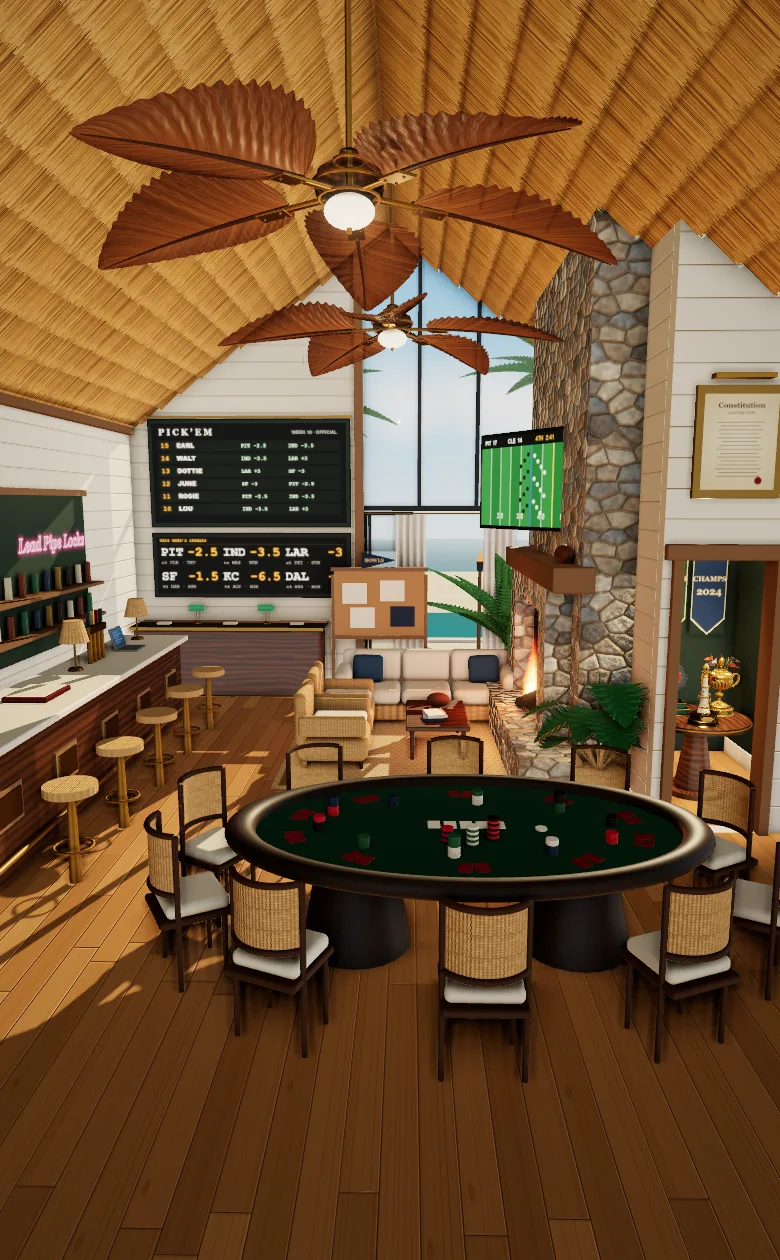
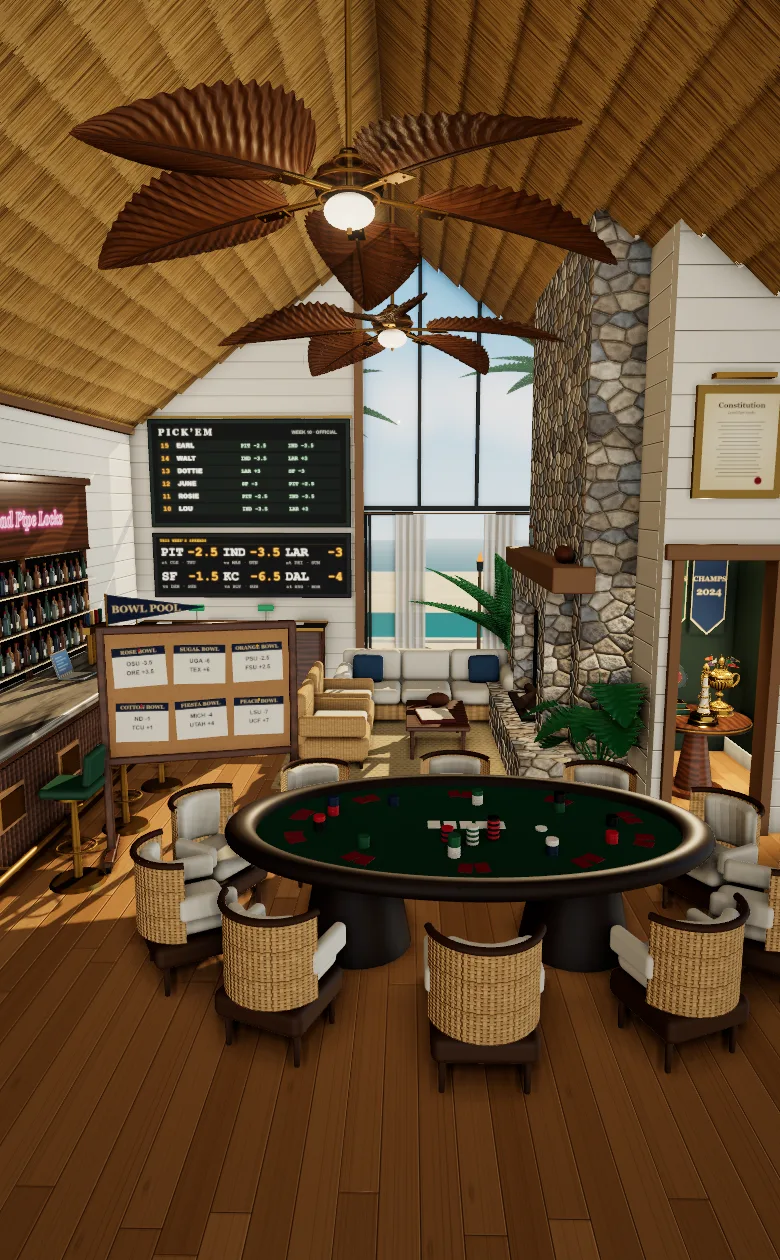
Lab clubhouse room: comfier chairs, an elegant bar, the fire lit at night
Deep padded club chairs at the poker table. The bar gets a fluted walnut front, marble top, brass rail, leather stools and a mirrored back bar with lit shelves of real bottles and rows of glassware. The TV goes. The fire is lit in the night picture and cold by day. From Dec 7 the Bowl Pool board stands in the open floor by the end of the bar, larger, with the bowl games pinned up. The record book moves to the lounge table so it and the laptop are easy to tap apart.

diff --git a/tools/clubhouse-room/room.js b/tools/clubhouse-room/room.js
@@ -4,12 +4,13 @@
 //  - Ceiling: natural beach-hut thatch laid in courses, no beams, two big palm-leaf fans down the middle.
 //  - Back wall, left: where picks are made, face on: the Big Board, one wide board of spreads under it, the counter. No sign.
 //  - Back wall, right: glass to the thatch, the sliding doors standing open onto the pool patio, palms, tiki torches and the sea.
-//  - Left wall: the bar running down the room, stools along it, the back bar and a neon sign on the wall, the plaques along its
-//    front, the record book and the laptop on top.
+//  - Left wall: the bar running down the room (fluted walnut, marble, brass), leather stools, a mirrored back bar of bottles and
+//    glassware under the neon, the plaques along its front, the laptop on top (the record book is on the lounge table).
 //  - Right: the Trophy Room, a room of its own to the side. Its wall steps into the clubhouse so its door faces you (the trophies
 //    on their table and the banners inside, the constitution framed over the door). Beyond it, on the wall the two rooms share,
-//    a grand floor-to-thatch stone fireplace with a TV over the mantel, and the lounge in front, set clear of the aisle.
-//  - Middle: a long oval Survivor poker table with a seat for every player. The floor in front of it is the way in.
+//    a grand floor-to-thatch stone fireplace (lit at night), and the lounge in front, set clear of the aisle.
+//  - Middle: a long oval Survivor poker table with a deep club chair for every player. The floor in front of it is the way in.
+//    From Dec 7 the Bowl Pool's board stands in the open floor by the end of the bar.
 // Units are metres: x left to right, z from the front wall (0) to the back (-RD).
 import { THREE, RoundedBoxGeometry, materials } from "/lib.js";
 import { pennantCup } from "/trophies.js";
@@ -37,20 +38,6 @@ const rbox = (w, h, d, r = 0.04) => new RoundedBoxGeometry(w, h, d, 3, r);
 const cyl = (rt, rb, h, seg = 32) => new THREE.CylinderGeometry(rt, rb, h, seg);
 
 // ---------- textures
-function gameOnTv() {
-  const c = canvas(640, 360), g = c.getContext("2d");
-  for (let i = 0; i < 10; i++) { g.fillStyle = i % 2 ? "#2c7a3a" : "#348a43"; g.fillRect(i * 64, 0, 64, 360); }
-  g.strokeStyle = "rgba(255,255,255,.85)"; g.lineWidth = 3;
-  for (let i = 1; i < 10; i++) { g.beginPath(); g.moveTo(i * 64, 44); g.lineTo(i * 64, 360); g.stroke(); }
-  g.fillStyle = "rgba(255,255,255,.8)"; g.font = "700 30px Arial"; g.textAlign = "center";
-  ["2 0", "3 0", "4 0", "5 0", "4 0"].forEach((n, i) => g.fillText(n, 128 + i * 128, 330));
-  g.fillStyle = "#1f6fe0"; g.fillRect(316, 44, 5, 316); g.fillStyle = "#ffd60a"; g.fillRect(444, 44, 5, 316);
-  for (let i = 0; i < 11; i++) { const y = 80 + i * 22; g.fillStyle = "#101418"; g.beginPath(); g.arc(300 - (i % 3) * 22, y, 8, 0, Math.PI * 2); g.fill(); g.fillStyle = "#f4f4f4"; g.beginPath(); g.arc(338 + (i % 4) * 20, y + 6, 8, 0, Math.PI * 2); g.fill(); }
-  g.fillStyle = "rgba(10,14,20,.92)"; g.fillRect(0, 0, 640, 44);
-  g.font = "700 24px Arial"; g.textAlign = "left"; g.fillStyle = "#fff"; g.fillText("PIT  17", 20, 30); g.fillText("CLE  14", 170, 30);
-  g.fillStyle = "#f0b429"; g.fillText("4TH  2:41", 340, 30); g.fillStyle = "#fff"; g.fillText("3RD & 4", 500, 30);
-  return texture(c);
-}
 function neon(text) {
   const c = canvas(1024, 200), g = c.getContext("2d");
   g.fillStyle = "rgba(0,0,0,0)"; g.fillRect(0, 0, 1024, 200);
@@ -273,40 +260,86 @@ export async function buildRoom(q) {
 
   // ----- the left wall: the bar, running down the room. Counter and stools, the back bar and a neon sign on the wall, lanterns
   // over it, the plaques along its front; the champions' banners hang over it one behind another, each facing the door.
+  // The bar: a fluted walnut front on a brass kick plate, a thick marble top with a brass foot rail below, green leather stools on
+  // brass. Behind it a back bar of walnut and antique mirror: three glass shelves of real bottles lit from beneath, glassware in rows
+  // on the back counter, and the neon over the mirror.
   const bar = group("bar");
-  const BXc = X0 + 0.95, BZ = -8.5, BL = 5.6;
-  add(bar, rbox(0.75, 1.1, BL, 0.03), m.walnut, [BXc, 0.55, BZ]);
-  add(bar, rbox(0.95, 0.07, BL + 0.12, 0.02), std(0xe8e2d4, { roughness: 0.25 }), [BXc, 1.13, BZ]);          // pale stone top
-  add(bar, cyl(0.025, 0.025, BL, 12), brass, [BXc + 0.45, 0.22, BZ], { rot: [Math.PI / 2, 0, 0] });
+  const BXc = X0 + 0.95, BZ = -8.5, BL = 5.6, FRONT = BXc + 0.375;
+  add(bar, rbox(0.75, 1.02, BL, 0.02), m.walnut, [BXc, 0.53, BZ]);
+  for (let k = 0; k < Math.floor(BL / 0.075); k++) add(bar, cyl(0.026, 0.026, 0.78, 10, 1), m.walnut, [FRONT, 0.55, BZ - BL / 2 + 0.06 + k * 0.075], { cast: false });   // flutes
+  add(bar, box(0.03, 0.12, BL), brass, [FRONT + 0.02, 0.06, BZ]);                                                                      // kick plate
+  add(bar, rbox(0.06, 0.07, BL + 0.04, 0.015), m.walnut, [FRONT + 0.02, 1.0, BZ]);                                                    // moulding under the top
+  add(bar, rbox(0.98, 0.09, BL + 0.14, 0.035), m.marble, [BXc + 0.02, 1.1, BZ]);                                                     // the marble top
+  add(bar, cyl(0.028, 0.028, BL, 16), brass, [FRONT + 0.16, 0.22, BZ], { rot: [Math.PI / 2, 0, 0] });                                  // foot rail
+  for (let k = 0; k < 5; k++) add(bar, cyl(0.012, 0.016, 0.2, 10), brass, [FRONT + 0.08, 0.2, BZ - BL / 2 + 0.4 + k * (BL - 0.8) / 4], { rot: [0, 0, Math.PI / 2] });
   const plaques = group("plaques");
-  for (let i = 0; i < 5; i++) { const z = BZ + 2.2 - i * 1.1; add(plaques, box(0.03, 0.32, 0.46), timberDark, [BXc + 0.39, 0.62, z]); add(plaques, box(0.02, 0.24, 0.38), brass, [BXc + 0.41, 0.62, z]); }
+  for (let i = 0; i < 5; i++) { const z = BZ + 2.2 - i * 1.1; add(plaques, rbox(0.03, 0.32, 0.46, 0.008), timberDark, [FRONT + 0.035, 0.62, z]); add(plaques, box(0.02, 0.24, 0.38), brass, [FRONT + 0.055, 0.62, z]); }
+  const stoolLeather = new THREE.MeshPhysicalMaterial({ color: 0x1f4a36, roughness: 0.45, clearcoat: 0.3, clearcoatRoughness: 0.4, sheen: 0.4, sheenColor: new THREE.Color(0x4f8a6a) });
   for (let i = 0; i < 5; i++) {
-    const z = BZ + 2.2 - i * 1.1;
-    add(bar, cyl(0.21, 0.21, 0.07, 24), rattan, [BXc + 0.9, 0.78, z]);
-    add(bar, cyl(0.03, 0.05, 0.75, 10), brass, [BXc + 0.9, 0.38, z]);
-    add(bar, new THREE.TorusGeometry(0.15, 0.012, 6, 24), brass, [BXc + 0.9, 0.3, z], { rot: [Math.PI / 2, 0, 0] });
+    const z = BZ + 2.2 - i * 1.1, sx = BXc + 0.92;
+    add(bar, rbox(0.4, 0.09, 0.38, 0.04), stoolLeather, [sx, 0.79, z]);                                                               // the seat
+    add(bar, rbox(0.06, 0.26, 0.34, 0.03), stoolLeather, [sx + 0.18, 0.97, z], { rot: [0, 0, -0.12] });                               // a low back
+    add(bar, cyl(0.15, 0.15, 0.02, 24), brass, [sx, 0.73, z]);
+    add(bar, cyl(0.025, 0.035, 0.66, 12), brass, [sx, 0.38, z]);
+    add(bar, cyl(0.2, 0.22, 0.03, 28), brass, [sx, 0.015, z]);
+    add(bar, new THREE.TorusGeometry(0.15, 0.011, 8, 28), brass, [sx, 0.3, z], { rot: [Math.PI / 2, 0, 0] });
   }
-  add(bar, box(0.06, 1.9, BL), std(0x1f3b2f, { roughness: 0.6 }), [X0 + 0.04, 2.15, BZ]);                    // the back bar's panel
-  add(bar, box(0.1, 0.08, BL + 0.1), timberDark, [X0 + 0.06, 3.12, BZ]);
-  for (let s = 0; s < 2; s++) add(bar, box(0.28, 0.04, BL - 0.2), timber, [X0 + 0.2, 1.5 + s * 0.42, BZ]);
-  const bottleColors = [0x2f6a4c, 0x7a3a12, 0xd8d0b8, 0x3a1d0c, 0x9a7a2a, 0x24435e];
-  for (let s = 0; s < 2; s++) for (let i = 0; i < 17; i++) add(bar, cyl(0.035, 0.04, 0.27 - (i % 3) * 0.03, 10), new THREE.MeshPhysicalMaterial({ color: bottleColors[(i + s) % 6], roughness: 0.1, transmission: 0.3, thickness: 0.1 }), [X0 + 0.2, 1.66 + s * 0.42, BZ - BL / 2 + 0.3 + i * 0.31], { cast: false });
-  add(bar, new THREE.PlaneGeometry(2.2, 0.43), new THREE.MeshBasicMaterial({ map: neon("Lead Pipe Locks"), transparent: true, toneMapped: false }), [X0 + 0.085, 2.5, -10.3], { cast: false, rot: [0, Math.PI / 2, 0] }).renderOrder = 2;
+  // the back bar
+  const WALL = X0 + 0.02;
+  add(bar, rbox(0.46, 0.92, BL, 0.02), m.walnut, [WALL + 0.23, 0.46, BZ]);                                                           // back counter
+  add(bar, rbox(0.5, 0.04, BL + 0.04, 0.01), m.marble, [WALL + 0.25, 0.94, BZ]);
+  add(bar, box(0.03, 1.36, BL - 0.3), new THREE.MeshStandardMaterial({ color: 0xb8a888, metalness: 1, roughness: 0.12, envMapIntensity: 1.1 }), [WALL + 0.02, 1.66, BZ], { cast: false });   // antique mirror
+  for (const z of [BZ - BL / 2 + 0.08, BZ + BL / 2 - 0.08, BZ - BL / 6, BZ + BL / 6]) add(bar, box(0.06, 1.42, 0.1), m.walnut, [WALL + 0.04, 1.66, z]);   // pilasters
+  add(bar, box(0.08, 0.86, BL + 0.1), m.walnut, [WALL + 0.04, 2.8, BZ]);                                                              // the panel above, where the neon hangs
+  add(bar, rbox(0.14, 0.1, BL + 0.2, 0.02), m.walnut, [WALL + 0.07, 3.27, BZ]);                                                       // cornice
+  add(bar, box(0.03, 0.03, BL), brass, [WALL + 0.1, 2.38, BZ]);
+  const bottleGlass = (color, clear) => new THREE.MeshPhysicalMaterial({ color, roughness: 0.06, metalness: 0, transmission: clear ? 0.85 : 0.45, thickness: 0.06, ior: 1.5, clearcoat: 1, clearcoatRoughness: 0.05, envMapIntensity: 1.2 });
+  const shapes = {
+    whiskey: [[0, 0], [0.038, 0], [0.04, 0.01], [0.04, 0.17], [0.034, 0.2], [0.014, 0.225], [0.013, 0.27], [0, 0.27]],
+    wine: [[0, 0], [0.034, 0], [0.036, 0.01], [0.036, 0.17], [0.03, 0.21], [0.013, 0.245], [0.012, 0.31], [0, 0.31]],
+    gin: [[0, 0], [0.044, 0], [0.046, 0.01], [0.046, 0.15], [0.03, 0.18], [0.013, 0.19], [0.013, 0.23], [0, 0.23]],
+    liqueur: [[0, 0], [0.04, 0], [0.042, 0.02], [0.034, 0.1], [0.04, 0.17], [0.02, 0.2], [0.011, 0.22], [0.011, 0.25], [0, 0.25]],
+  };
+  const lathe = Object.fromEntries(Object.entries(shapes).map(([k, pts]) => [k, new THREE.LatheGeometry(pts.map(([r, y]) => new THREE.Vector2(r, y)), 20)]));
+  const bottleKinds = [["whiskey", 0x8a4a14, false], ["wine", 0x2f5a3c, false], ["gin", 0xdfeee6, true], ["whiskey", 0xa8641c, false], ["liqueur", 0x6a1a14, false], ["gin", 0x9fc8d8, true], ["wine", 0x3a1d0c, false], ["whiskey", 0xc0802a, false], ["liqueur", 0x1d3557, false]];
+  const labelInks = [0xf3ead3, 0x111111, 0xe6cf98, 0xf7f4ec, 0x1f4a36];
+  const SHELVES = [1.16, 1.58, 2.0];
+  SHELVES.forEach((y, sIndex) => {
+    add(bar, box(0.24, 0.016, BL - 0.4), glass, [WALL + 0.14, y, BZ], { cast: false });
+    add(bar, box(0.01, 0.012, BL - 0.4), glow(0xffd9a0, night ? 2.2 : 1.1), [WALL + 0.24, y - 0.014, BZ], { cast: false });              // a lamp strip under the shelf's front edge
+    let z = BZ - BL / 2 + 0.3;
+    for (let i = 0; z < BZ + BL / 2 - 0.3; i++) {
+      const [kind, color, clear] = bottleKinds[(i * 4 + sIndex * 3) % bottleKinds.length], h = shapes[kind].at(-1)[1];
+      if (Math.abs(z - (BZ - BL / 6)) < 0.08 || Math.abs(z - (BZ + BL / 6)) < 0.08) { z += 0.12; continue; }                        // leave the pilasters clear
+      const bottle = add(bar, lathe[kind], bottleGlass(color, clear), [WALL + 0.13 + (i % 2) * 0.03, y + 0.008, z], { cast: false });
+      bottle.scale.setScalar(sIndex === 2 ? 0.9 : 1);
+      add(bar, cyl(0.014, 0.014, 0.03, 10), [brass, std(0x111111, { roughness: 0.4 }), std(0x8c1e24, { roughness: 0.4 })][i % 3], [WALL + 0.13 + (i % 2) * 0.03, y + 0.008 + h * bottle.scale.y + 0.012, z], { cast: false });
+      add(bar, new THREE.PlaneGeometry(0.05, 0.05 + (i % 2) * 0.02), std(labelInks[(i + sIndex) % labelInks.length], { roughness: 0.7 }), [WALL + 0.13 + (i % 2) * 0.03 + (kind === "gin" ? 0.047 : 0.041), y + 0.09, z], { cast: false, rot: [0, Math.PI / 2, 0] });
+      z += 0.085 + (i % 3) * 0.012;
+    }
+    if (night) { const l = new THREE.PointLight(0xffc98a, 0.9, 2.2, 1.6); l.position.set(WALL + 0.4, y + 0.2, BZ); bar.add(l); }
+  });
+  // glassware on the back counter: rocks glasses and coupes in neat rows, upturned on a bar mat
+  const crystal = new THREE.MeshPhysicalMaterial({ color: 0xffffff, roughness: 0.04, transmission: 1, thickness: 0.02, ior: 1.5, clearcoat: 1, envMapIntensity: 1.4, side: THREE.DoubleSide });
+  const rocks = new THREE.LatheGeometry([[0, 0], [0.036, 0], [0.04, 0.004], [0.042, 0.085], [0.038, 0.085], [0.034, 0.012], [0, 0.012]].map(([r, y]) => new THREE.Vector2(r, y)), 20);
+  const coupe = new THREE.LatheGeometry([[0, 0], [0.032, 0], [0.032, 0.006], [0.005, 0.012], [0.004, 0.09], [0.03, 0.1], [0.055, 0.13], [0.052, 0.132], [0.028, 0.104], [0, 0.098]].map(([r, y]) => new THREE.Vector2(r, y)), 22);
+  add(bar, box(0.3, 0.008, 1.4), std(0x111111, { roughness: 0.9 }), [WALL + 0.3, 0.965, BZ + 1.6], { cast: false });
+  for (let r = 0; r < 2; r++) for (let k = 0; k < 9; k++) add(bar, k % 3 === 2 ? coupe : rocks, crystal, [WALL + 0.22 + r * 0.12, 0.97, BZ + 1.0 + k * 0.14 + r * 0.07], { cast: false });
+  add(bar, new THREE.PlaneGeometry(2.2, 0.43), new THREE.MeshBasicMaterial({ map: neon("Lead Pipe Locks"), transparent: true, toneMapped: false }), [WALL + 0.085, 2.8, -9.6], { cast: false, rot: [0, Math.PI / 2, 0] }).renderOrder = 2;
+  // on the bar top: the tap tower, a cocktail shaker, a pair of glasses
   add(bar, box(0.08, 0.08, 0.5), brass, [BXc - 0.1, 1.55, BZ - 1.0]);
   for (let i = 0; i < 4; i++) { add(bar, cyl(0.03, 0.03, 0.4, 10), brass, [BXc - 0.1, 1.36, BZ - 1.18 + i * 0.12]); add(bar, rbox(0.04, 0.16, 0.04, 0.01), std([0x1f4a36, 0x8c1e24, 0xc9a45f, 0x1d3557][i]), [BXc - 0.1, 1.68, BZ - 1.18 + i * 0.12]); }
-  for (const z of [BZ + 2.55, BZ - 0.45, BZ - 2.5]) {                                                        // rattan lamps standing on the bar
-    add(bar, cyl(0.07, 0.09, 0.03, 16), brass, [BXc - 0.12, 1.18, z]);
-    add(bar, cyl(0.012, 0.012, 0.34, 8), brass, [BXc - 0.12, 1.35, z]);
-    add(bar, cyl(0.1, 0.16, 0.24, 20), rattan, [BXc - 0.12, 1.6, z]);
-    add(bar, cyl(0.05, 0.05, 0.1, 12), glow(0xffd28a, night ? 3 : 1.2), [BXc - 0.12, 1.56, z], { cast: false });
-    if (night) { const l = new THREE.PointLight(0xffc27a, 1.6, 3, 1.6); l.position.set(BXc + 0.1, 1.7, z); bar.add(l); }
+  add(bar, new THREE.LatheGeometry([[0, 0], [0.04, 0], [0.045, 0.14], [0.03, 0.17], [0.03, 0.2], [0.012, 0.22], [0, 0.23]].map(([r, y]) => new THREE.Vector2(r, y)), 20), new THREE.MeshStandardMaterial({ color: 0xd8dbe0, metalness: 1, roughness: 0.18 }), [BXc + 0.1, 1.145, BZ - 2.1]);
+  for (const dz of [0, 0.12]) add(bar, coupe, crystal, [BXc + 0.18, 1.145, BZ - 1.8 + dz], { cast: false });
+  for (const z of [BZ + 2.55, BZ - 2.5]) {                                                                                             // brass lamps with pleated shades
+    add(bar, cyl(0.07, 0.09, 0.03, 20), brass, [BXc - 0.12, 1.16, z]);
+    add(bar, cyl(0.012, 0.012, 0.36, 8), brass, [BXc - 0.12, 1.34, z]);
+    add(bar, cyl(0.07, 0.14, 0.2, 24, 1, true), new THREE.MeshStandardMaterial({ color: 0xf3ead3, emissive: 0xffd9a0, emissiveIntensity: night ? 0.9 : 0.3, roughness: 0.9, side: THREE.DoubleSide }), [BXc - 0.12, 1.58, z], { cast: false });
+    if (night) { const l = new THREE.PointLight(0xffc27a, 1.6, 3, 1.6); l.position.set(BXc + 0.1, 1.6, z); bar.add(l); }
   }
-  const record = group("record");
-  add(record, rbox(0.42, 0.05, 0.56, 0.01), std(0x6b1f1a, { roughness: 0.5 }), [BXc, 1.19, BZ + 0.75]);
-  add(record, new THREE.PlaneGeometry(0.52, 0.38), new THREE.MeshStandardMaterial({ map: bookPages(), roughness: 0.9 }), [BXc, 1.22, BZ + 0.75], { cast: false, rot: [-Math.PI / 2, 0, Math.PI / 2] });
   const chat = group("chat");
-  add(chat, rbox(0.27, 0.02, 0.38, 0.008), std(0xa8adb2, { metalness: 0.7, roughness: 0.3 }), [BXc + 0.05, 1.18, BZ - 1.75]);
-  const lid = new THREE.Group(); lid.position.set(BXc - 0.08, 1.19, BZ - 1.75); lid.rotation.set(0, Math.PI / 2, 0); chat.add(lid);
+  add(chat, rbox(0.27, 0.02, 0.38, 0.008), std(0xa8adb2, { metalness: 0.7, roughness: 0.3 }), [BXc + 0.05, 1.18, BZ - 0.1]);
+  const lid = new THREE.Group(); lid.position.set(BXc - 0.08, 1.19, BZ - 0.1); lid.rotation.set(0, Math.PI / 2, 0); chat.add(lid);
   const lidTilt = new THREE.Group(); lidTilt.rotation.x = -0.3; lid.add(lidTilt);
   add(lidTilt, rbox(0.38, 0.26, 0.02, 0.008), std(0xa8adb2, { metalness: 0.7, roughness: 0.3 }), [0, 0.13, 0]);
   add(lidTilt, new THREE.PlaneGeometry(0.34, 0.22), new THREE.MeshStandardMaterial({ map: screenTex(), emissive: 0xffffff, emissiveMap: screenTex(), emissiveIntensity: 0.85 }), [0, 0.13, 0.012], { cast: false });
@@ -337,24 +370,23 @@ export async function buildRoom(q) {
   for (const side of [-1, 1]) stoneBlock(0.28, 1.5, 0.44, [X1 - CD - 0.14, 1.25, FZ + side * 1.17]);
   stoneBlock(0.28, 0.3, 2.78, [X1 - CD - 0.14, 1.97, FZ]);
   add(fire, box(0.04, 1.34, 1.92), std(0x120e0b, { roughness: 1 }), [X1 - CD - 0.01, 1.16, FZ], { cast: false });
-  add(fire, box(0.02, 0.5, 1.5), glow(0xb8380a, night ? 1.4 : 0.9), [X1 - CD - 0.035, 0.78, FZ], { cast: false });                  // embers glowing on the back of the firebox
-  const fireMat = new THREE.MeshBasicMaterial({ map: fireTongue(), transparent: true, blending: THREE.AdditiveBlending, depthWrite: false, side: THREE.DoubleSide, fog: false });
-  fireMat.color.setScalar(night ? 3.2 : 2.4);
-  [[-0.46, 0.5], [-0.24, 0.78], [0.0, 0.95], [0.22, 0.72], [0.44, 0.48], [-0.12, 0.6], [0.12, 0.66]].forEach(([dz, h], i) => {
-    for (const turn of [-0.45, 0.5]) veil.push(add(fire, new THREE.PlaneGeometry(h * 0.52, h), fireMat, [X1 - CD - 0.11 - (i % 3) * 0.035, 0.58 + h / 2, FZ + dz], { cast: false, receive: false, rot: [0, -Math.PI / 2 + turn, 0] }));
-  });
+  // The fire is lit at night. By day it is laid but cold: logs on the grate, a little pale ash.
+  add(fire, box(0.5, 0.04, 1.3), std(0x1c1814, { roughness: 1 }), [X1 - CD - 0.14, 0.52, FZ], { cast: false });                      // the grate
+  if (night) {
+    add(fire, box(0.02, 0.5, 1.5), glow(0xb8380a, 1.4), [X1 - CD - 0.035, 0.78, FZ], { cast: false });                                // embers glowing on the back of the firebox
+    const fireMat = new THREE.MeshBasicMaterial({ map: fireTongue(), transparent: true, blending: THREE.AdditiveBlending, depthWrite: false, side: THREE.DoubleSide, fog: false });
+    fireMat.color.setScalar(3.2);
+    [[-0.46, 0.5], [-0.24, 0.78], [0.0, 0.95], [0.22, 0.72], [0.44, 0.48], [-0.12, 0.6], [0.12, 0.66]].forEach(([dz, h], i) => {
+      for (const turn of [-0.45, 0.5]) veil.push(add(fire, new THREE.PlaneGeometry(h * 0.52, h), fireMat, [X1 - CD - 0.11 - (i % 3) * 0.035, 0.58 + h / 2, FZ + dz], { cast: false, receive: false, rot: [0, -Math.PI / 2 + turn, 0] }));
+    });
+    const flame = new THREE.PointLight(0xff8a3a, 9, 7, 1.5); flame.position.set(X1 - CD - 0.7, 0.9, FZ); fire.add(flame);
+  } else add(fire, box(0.3, 0.02, 1.0), std(0xb8b2a8, { roughness: 1 }), [X1 - CD - 0.14, 0.55, FZ], { cast: false });              // cold ash
   for (let i = 0; i < 3; i++) add(fire, cyl(0.07, 0.07, 1.0, 8), std(0x3a2414), [X1 - CD - 0.12, 0.6 + i * 0.05, FZ - 0.15 + i * 0.15], { rot: [Math.PI / 2, 0, 0.3 * i] });
   add(fire, rbox(0.42, 0.26, 3.8, 0.02), timberDark, [X1 - CD - 0.1, 2.25, FZ]);                                     // timber mantel beam
   const ball = add(fire, new THREE.SphereGeometry(0.1, 20, 14), std(0x6b3a1e, { roughness: 0.6 }), [X1 - CD - 0.1, 2.47, FZ + 1.35]); ball.scale.set(1, 0.95, 1.6);
   add(fire, box(0.012, 0.012, 0.2), white, [X1 - CD - 0.1, 2.57, FZ + 1.35], { cast: false });
   add(fire, rbox(0.03, 0.3, 0.38, 0.008), timberDark, [X1 - CD - 0.02, 2.54, FZ - 1.3], { rot: [0, 0, 0.12] });
   add(fire, box(0.005, 0.22, 0.3), std(0x9fc4dd), [X1 - CD - 0.04, 2.54, FZ - 1.3], { cast: false, rot: [0, 0, 0.12] });
-  const flame = new THREE.PointLight(0xff8a3a, night ? 9 : 3.5, 7, 1.5); flame.position.set(X1 - CD - 0.7, 0.9, FZ); fire.add(flame);
-  const tv = group("tv");
-  const tvMount = new THREE.Group(); tvMount.position.set(X1 - CD - 0.25, 3.25, FZ + 0.1); tvMount.rotation.y = -Math.PI / 2 + 0.55; tv.add(tvMount);
-  add(tvMount, rbox(2.0, 1.16, 0.06, 0.02), std(0x0c0c0d, { roughness: 0.3, metalness: 0.3 }), [0, 0, 0]);
-  add(tvMount, new THREE.PlaneGeometry(1.9, 1.07), new THREE.MeshStandardMaterial({ map: gameOnTv(), emissive: 0xffffff, emissiveMap: gameOnTv(), emissiveIntensity: night ? 1.0 : 0.8 }), [0, 0, 0.032], { cast: false });
-  add(tv, box(0.28, 0.06, 0.06), frameMat, [X1 - CD - 0.12, 3.25, FZ]);
   const charter = group("constitution");
   add(charter, box(0.74, 0.94, 0.06), std(0xa8823a, { metalness: 0.6, roughness: 0.35 }), [CX, 3.5, JOG + 0.03]);
   add(charter, new THREE.PlaneGeometry(0.62, 0.79), new THREE.MeshStandardMaterial({ map: parchment(), roughness: 0.9 }), [CX, 3.5, JOG + 0.065], { cast: false });
@@ -381,7 +413,10 @@ export async function buildRoom(q) {
   }
   add(room, rbox(0.75, 0.06, 1.3, 0.02), m.walnut, [0.65, 0.4, FZ]);                                                                   // the low table
   for (const dx of [-0.3, 0.3]) for (const dz of [-0.56, 0.56]) add(room, cyl(0.03, 0.022, 0.37, 10), m.walnut, [0.65 + dx, 0.185, FZ + dz]);
-  add(room, rbox(0.26, 0.05, 0.34, 0.01), std(0x1d3557, { roughness: 0.6 }), [0.6, 0.455, FZ + 0.3]); add(room, rbox(0.24, 0.04, 0.32, 0.01), std(0xe8e2d4, { roughness: 0.6 }), [0.62, 0.5, FZ + 0.31], { rot: [0, 0.2, 0] });
+  // the record book (the pool's stats) lies open on the low table, where anyone in the lounge can leaf through it
+  const record = group("record");
+  add(record, rbox(0.42, 0.05, 0.56, 0.01), std(0x6b1f1a, { roughness: 0.5 }), [0.62, 0.455, FZ + 0.25], { rot: [0, 0.15, 0] });
+  add(record, new THREE.PlaneGeometry(0.52, 0.38), new THREE.MeshStandardMaterial({ map: bookPages(), roughness: 0.9 }), [0.62, 0.484, FZ + 0.25], { cast: false, rot: [-Math.PI / 2, 0, Math.PI / 2 + 0.15] });
   const tableBall = add(room, new THREE.SphereGeometry(0.1, 20, 14), std(0x6b3a1e, { roughness: 0.6 }), [0.68, 0.52, FZ - 0.3]); tableBall.scale.set(1.5, 0.92, 0.92);
 
   // ----- the Trophy Room, through its door: as on today's page, the three real trophies on their round mahogany table under a lamp
@@ -431,12 +466,19 @@ export async function buildRoom(q) {
     for (const off of [-0.05, 0.05]) add(poker, box(0.085, 0.004, 0.12), cardBack, [PX + cos * (PRX - 0.3) + sin * off, 0.824 + (off > 0 ? 0.004 : 0), PZ + sin * (PRZ - 0.24) - cos * off], { cast: false, rot: [0, -t + Math.PI / 2 + off * 3, 0] });
     for (let k = 0; k < 4 + (a % 3) * 2; k++) add(poker, cyl(0.04, 0.04, 0.016, 18), std(chipColors[(a + (k > 3 ? 1 : 0)) % 5], { roughness: 0.4 }), [PX + cos * (PRX - 0.5) + Math.cos(t + 1.5) * 0.11, 0.83 + k * 0.017, PZ + sin * (PRZ - 0.42) + Math.sin(t + 1.5) * 0.08], { cast: false });
     const c = new THREE.Group(); c.position.set(PX + cos * (PRX + 0.4), 0, PZ + sin * (PRZ + 0.4)); c.rotation.y = Math.PI / 2 - Math.atan2(sin * PRX, cos * PRZ); poker.add(c);
-    // a barrel-back club chair: woven cane wrapped round the back between two rails, a loose linen cushion, turned legs
-    add(c, rbox(0.46, 0.05, 0.46, 0.02), chairWood, [0, 0.45, 0]); add(c, rbox(0.42, 0.09, 0.4, 0.04), linen, [0, 0.51, -0.02]);
-    add(c, new THREE.CylinderGeometry(0.27, 0.27, 0.36, 24, 1, true, -0.95, 1.9), caneOpen, [0, 0.82, -0.04]);
-    for (const y of [0.63, 1.01]) add(c, new THREE.TorusGeometry(0.27, 0.02, 8, 24, 1.9), chairWood, [0, y, -0.04], { rot: [Math.PI / 2, 0, Math.PI / 2 - 0.95] });
-    for (const sx of [-1, 1]) { add(c, cyl(0.02, 0.016, 1.01, 10), chairWood, [sx * 0.22, 0.505, 0.117]); add(c, cyl(0.02, 0.015, 0.45, 10), chairWood, [sx * 0.19, 0.225, -0.18]); }
+    // a deep club chair: a thick linen seat cushion, a padded back that wraps round into low arms, a cane shell behind it, short legs
+    add(c, rbox(0.56, 0.16, 0.54, 0.05), chairWood, [0, 0.27, 0]);
+    add(c, rbox(0.5, 0.14, 0.48, 0.07), linen, [0, 0.42, -0.02]);
+    add(c, new THREE.CylinderGeometry(0.3, 0.3, 0.5, 28, 1, true, -1.35, 2.7), caneOpen, [0, 0.6, 0.02]);
+    add(c, new THREE.TorusGeometry(0.3, 0.022, 8, 28, 2.7), chairWood, [0, 0.85, 0.02], { rot: [Math.PI / 2, 0, Math.PI / 2 - 1.35] });
+    for (let k = -2; k <= 2; k++) {                                                                                                    // the padded back, in tufted panels
+      const a = k * 0.32, pad = add(c, rbox(0.17, 0.36, 0.09, 0.04), linen, [Math.sin(a) * 0.235, 0.66, 0.02 + Math.cos(a) * 0.235]);
+      pad.rotation.set(-0.1 * Math.cos(a), a, 0);
+    }
+    for (const side of [-1, 1]) add(c, rbox(0.08, 0.15, 0.36, 0.035), linen, [side * 0.27, 0.56, -0.06]);                              // the arms
+    for (const [lx, lz] of [[-0.22, -0.2], [0.22, -0.2], [-0.22, 0.2], [0.22, 0.2]]) add(c, cyl(0.022, 0.016, 0.2, 10), chairWood, [lx, 0.1, lz]);
   }
+
 
   // ----- plants in baskets and pots, a surfboard against the wall, and from Dec 7 the Bowl Pool's bulletin board on wheels, wheeled in
   // beside the open doors
@@ -467,14 +509,23 @@ export async function buildRoom(q) {
     if (night) { const l = new THREE.PointLight(0xff9a40, 2.5, 4, 1.6); l.position.set(x, 2.1, z); out.add(l); }
   }
   if (bowl) {
+    // From Dec 7 the Bowl Pool's board is wheeled in and stands in the open floor by the end of the bar, turned a little into the
+    // room: a cork board in a walnut frame on a wheeled stand, the BOWL POOL pennant on top and the bowl games pinned up as cards.
     const b2 = group("bowl");
-    const BBX = -0.15, BBZ = ZB + 0.9;
-    add(b2, box(1.4, 1.0, 0.05), std(0xb98a5a, { roughness: 1 }), [BBX, 1.45, BBZ]);
-    add(b2, box(1.5, 0.06, 0.08), timberDark, [BBX, 1.98, BBZ]); add(b2, box(1.5, 0.06, 0.08), timberDark, [BBX, 0.92, BBZ]);
-    for (const dx of [-0.72, 0.72]) { add(b2, box(0.05, 1.9, 0.05), timberDark, [BBX + dx, 0.95, BBZ]); add(b2, box(0.05, 0.05, 0.55), timberDark, [BBX + dx, 0.12, BBZ]); for (const dz of [-0.24, 0.24]) add(b2, cyl(0.05, 0.05, 0.04, 16), std(0x222222), [BBX + dx, 0.05, BBZ + dz], { rot: [0, 0, Math.PI / 2] }); }
-    [[-0.38, 0.16, 0xf6f1e3], [0.2, 0.2, 0xf6f1e3], [0.36, -0.2, 0x1b2a4a], [-0.26, -0.22, 0xf6f1e3]].forEach(([dx, dy, c]) => add(b2, box(0.38, 0.32, 0.01), std(c), [BBX + dx, 1.45 + dy, BBZ + 0.035], { cast: false }));
-    const pc = canvas(256, 128), pg = pc.getContext("2d"); pg.fillStyle = "#1b2a4a"; pg.beginPath(); pg.moveTo(0, 0); pg.lineTo(256, 64); pg.lineTo(0, 128); pg.fill(); pg.fillStyle = "#e6cf98"; pg.font = "700 34px Georgia"; pg.fillText("BOWLS", 24, 76);
-    add(b2, new THREE.PlaneGeometry(0.55, 0.27), new THREE.MeshStandardMaterial({ map: texture(pc), transparent: true, alphaTest: 0.5 }), [BBX, 2.12, BBZ + 0.04], { cast: false });
+    const stand = new THREE.Group(); stand.position.set(-1.45, 0, -6.9); stand.rotation.y = 0.25; b2.add(stand);
+    const cork = (() => { const c = canvas(512, 384), g = c.getContext("2d"); g.fillStyle = "#b98a5a"; g.fillRect(0, 0, 512, 384); for (let i = 0; i < 9000; i++) { g.fillStyle = `rgba(${rand() < 0.5 ? "90,60,30" : "230,190,140"},${0.08 + rand() * 0.14})`; g.fillRect(rand() * 512, rand() * 384, 1 + rand() * 2, 1 + rand() * 2); } return texture(c); })();
+    add(stand, box(1.5, 1.05, 0.04), new THREE.MeshStandardMaterial({ map: cork, roughness: 1 }), [0, 1.42, 0]);
+    for (const y of [0.87, 1.97]) add(stand, rbox(1.62, 0.07, 0.08, 0.015), m.walnut, [0, y, 0]);
+    for (const x of [-0.78, 0.78]) { add(stand, rbox(0.07, 1.98, 0.08, 0.015), m.walnut, [x, 1.0, 0]); add(stand, rbox(0.08, 0.06, 0.6, 0.015), m.walnut, [x, 0.08, 0]); for (const dz of [-0.26, 0.26]) add(stand, cyl(0.045, 0.045, 0.035, 16), std(0x1a1a1a, { roughness: 0.6 }), [x, 0.045, dz], { rot: [0, 0, Math.PI / 2] }); }
+    const card = (lines) => { const c = canvas(256, 200), g = c.getContext("2d"); g.fillStyle = "#f6f1e3"; g.fillRect(0, 0, 256, 200); g.fillStyle = "#1b2a4a"; g.fillRect(0, 0, 256, 44); g.fillStyle = "#e6cf98"; g.font = "700 26px Georgia"; g.textAlign = "center"; g.fillText(lines[0], 128, 31); g.fillStyle = "#1b2a4a"; g.font = "700 30px Arial"; lines.slice(1).forEach((line, i) => g.fillText(line, 128, 92 + i * 46)); return texture(c); };
+    [["ROSE BOWL", "OSU -3.5", "ORE +3.5"], ["SUGAR BOWL", "UGA -6", "TEX +6"], ["ORANGE BOWL", "PSU -2.5", "FSU +2.5"], ["COTTON BOWL", "ND -1", "TCU +1"], ["FIESTA BOWL", "MICH -4", "UTAH +4"], ["PEACH BOWL", "LSU -7", "UCF +7"]].forEach((lines, i) => {
+      const x = -0.48 + (i % 3) * 0.48, y = 1.66 - Math.floor(i / 3) * 0.47, tilt = [0.04, -0.03, 0.02, -0.04, 0.03, -0.02][i];
+      add(stand, new THREE.PlaneGeometry(0.42, 0.33), new THREE.MeshStandardMaterial({ map: card(lines), roughness: 0.85 }), [x, y, 0.024], { cast: false, rot: [0, 0, tilt] });
+      add(stand, new THREE.SphereGeometry(0.012, 10, 8), std([0xd4342c, 0x1d3557, 0xf0b429][i % 3], { roughness: 0.3 }), [x, y + 0.14, 0.03], { cast: false });
+    });
+    const pc = canvas(512, 160), pg = pc.getContext("2d"); pg.fillStyle = "#1b2a4a"; pg.beginPath(); pg.moveTo(0, 0); pg.lineTo(512, 80); pg.lineTo(0, 160); pg.fill(); pg.fillStyle = "#e6cf98"; pg.font = "700 52px Georgia"; pg.fillText("BOWL POOL", 26, 98);
+    add(stand, new THREE.PlaneGeometry(0.8, 0.25), new THREE.MeshStandardMaterial({ map: texture(pc), transparent: true, alphaTest: 0.5, side: THREE.DoubleSide }), [-0.32, 2.14, 0.0], { cast: false });
+    add(stand, cyl(0.01, 0.01, 0.3, 8), brass, [-0.72, 2.12, 0]);
   }
 
   // ----- light: late-afternoon sun raking in through the glass and across the floor, or a warm evening with the pool and the

diff --git a/src/components/lab/lab-clubhouse.tsx b/src/components/lab/lab-clubhouse.tsx
@@ -15,11 +15,11 @@ import ROOM_PICTURES from "@/lib/lab-clubhouse-room.json";
  *    inside, looking down the room under a thatched beach-hut ceiling with two big palm-leaf fans. There is room to walk: in past
  *    the poker table, along the bar, round the lounge and out through the open doors. Tap anything to go there: the wall that faces
  *    you where picks are made (the Big Board, under it one wide board of the week's spreads, the counter; no sign says
- *    "sportsbook"), the bar down the left wall (the plaques along its front, the record book and the laptop on top: the pool chat, a
+ *    "sportsbook"), the bar down the left wall (the plaques along its front, the laptop on top: the pool chat, a
  *    mail sign when there's a new message), the Trophy Room through its own door on the right (a room to the side: the trophies on
  *    their table, the banners behind; it opens today's turning table and banners), the constitution framed over that door, the
- *    stone fireplace and the lounge beyond it (a TV over the mantel), the oval Survivor poker table in the middle with a seat for
- *    every player, and from Dec 7 the Bowl Pool's bulletin board, wheeled in beside the doors.
+ *    stone fireplace (lit at night) and the lounge beyond it (the record book open on its table), the oval Survivor poker table in the middle with a deep club chair
+ *    for every player, and from Dec 7 the Bowl Pool's bulletin board, wheeled into the open floor by the end of the bar.
  *  - Only a few things carry a label (where their news is worth a glance); "Show labels" names everything, and a plain list of the
  *    rooms sits under the picture for anyone who would rather tap a word.
  *  - Your ticket is pinned at the bottom of every screen: a lamp for each pick, lit once it is in, and the next deadline; it opens the

diff --git a/src/styles/81-lab.css b/src/styles/81-lab.css
@@ -130,7 +130,7 @@
 .lab-room-spot.is-record .lab-room-tag { left: 4px; transform: none; }
 .lab-room-spot.is-constitution .lab-room-tag,
 .lab-room-spot.is-trophies .lab-room-tag { left: auto; right: 0; transform: none; }
-.lab-room-spot.is-chat .lab-room-tag { left: -34px; transform: none; }
+.lab-room-spot.is-chat .lab-room-tag { left: 0; transform: none; }
 .lab-room-mail { background: rgb(189 48 40); border: 2px solid rgb(255 255 255); border-radius: 999px; box-shadow: 0 2px 6px rgba(0, 0, 0, .4); color: rgb(255 255 255); font-size: .75rem; line-height: 1; padding: 3px 5px; position: absolute; right: -4px; top: -6px; }
 .lab-room-labels { background: rgba(16, 32, 24, .82); border: 1px solid rgba(201, 164, 95, .7); border-radius: 999px; bottom: 10px; color: var(--cw-cream); cursor: pointer; font-size: .75rem; font-weight: 800; min-height: 2.25rem; padding: 0 12px; position: absolute; right: 10px; }
 .lab-room-list { display: grid; gap: 8px; grid-template-columns: repeat(2, minmax(0, 1fr)); margin-inline: auto; max-width: 30rem; width: 100%; }

diff --git a/docs/VIEW_STATES.md b/docs/VIEW_STATES.md
@@ -157,7 +157,7 @@ Shot as the chat element alone, at phone 390 and desktop 1280, day and night. Fo
 | "Notifications on this phone" on Notifications (every player): `off`, `on`, `blocked`, `iphone-tab` (an iPhone browser tab, told to add the app to the Home Screen) and `no-support`, day at phone and desktop width, plus `on` at night; behavior tests follow the taps (turn on: permission, key, save; test; turn off) and show the section to a player who is not the Commissioner too (`phone-notifications.visual.spec.ts`) | `/profile` |
 | In-app "Turn on notifications" banner (Home Screen app, signed in, notifications not on yet): `offer` day at phone and desktop, night at phone, and `on` after one tap; behavior tests: one tap asks the phone and saves it, a "no" says where to turn them on later, Not now keeps it away after reopening, and no banner in a browser tab, when already on, when blocked, on Notifications, or before sign-in (`notifications-banner.visual.spec.ts`) | any page in the app |
 | Workshop Lab (`/admin/workshop/lab`, Commissioner only): the Showroom and Lab tabs (Lab green), one line "Try-outs before they reach players. Nothing here changes the pool.", a shelf of try-out chips (Tote board, Pad skins, Clubhouse, Survivor table, Feel test; the choice kept in `?try=` and on this device), then the chosen try-out (shot here with the Feel test); the whole page, phone and desktop, day and night (`workshop.visual.spec.ts`); a player sees only "Commissioner only." and the tabs, and the Showroom and Lab tabs lead to each other (`haptic-feel-test.visual.spec.ts`) | `/admin/workshop/lab` as the Commissioner |
-| Lab try-out, Clubhouse: the whole pool as one grand beach bungalow, phone first, sample league only. **The room** is a 3D picture (rendered by `tools/clubhouse-room`; by day, and at night with the pool lit) seen from just inside, looking down the room; what has to be read hangs on the wall that faces the viewer, nothing is turned to the camera by a trick. The room is lit as a real one is (late sun raking through the glass and across the oak floor, soft shadow wherever two things meet, the room reflected in its own brass and floor), and there is room to walk: in past the poker table, along the bar, round the lounge and out through the open doors. A thatched beach-hut ceiling laid in courses (no beams) with two big palm-leaf fans, each blade a modelled leaf, each with a light; on the back wall, left, where picks are made, face on (the Big Board, under it one board of the week's spreads as wide as the wall in big type, the counter; no sign names it); on its right, glass to the thatch with the sliding doors standing open onto the pool patio, a linen sheer at each side, palms, tiki torches and the sea beyond; down the left wall the bar (stools, a back bar with a neon sign, lamps, plaques along its front, the record book and the laptop on top); on the right the Trophy Room, a room of its own to the side whose wall steps into the clubhouse and whose door faces the viewer (inside, the real trophies on their round table under a lamp, the champions' banners behind), the constitution framed over that door; beyond it a grand fieldstone fireplace floor to thatch with a TV over the mantel (a game on) and the lounge in front (a sofa, two cane armchairs, a low table) set clear of the aisle; in the middle a long oval Survivor poker table with a seat for every player (ten), a hand dealt to each; and from Dec 7 the Bowl Pool's bulletin board on wheels beside the doors. A tap spot (never smaller than 44px) lies over each: the picks wall opens the Window, the Big Board the Big Board, the Trophy Room's door the Trophy Room, the plaques on the bar the Plaques, the poker table the Survivor table; the record book, laptop (pool chat), constitution and Bowl Pool board open stand-ins for now. Only the Window, the Big Board and Survivor (and the Bowl Pool board) carry a label with a line of news; "Show labels" names everything. The laptop shows a mail sign when there's a new message; the picks wall glows while a pick is owed. Under the picture, the rooms as a plain list. **Your ticket** is pinned to the bottom of every clubhouse screen but the Window: a lamp per pick (lit once it is in) and the next deadline; it opens the Window. Every room has one "Back to Clubhouse" button and its name at the top. **Trophy Room:** exactly today's Trophy Room page without its stats: the turning table (its arrows turn it) and the banners of the trophy at the front, with the sample champions. **Plaques:** a quiet engraved brass plaque per season, the season countdown plate, and A champion is crowned. Pictures: the room (as it opens, with labels, from Dec 7, all picks in with nothing new), the Big Board, the Window, the Trophy Room and the Plaques' two scenes, phone and desktop by day, phone at night; behaviour tests: every spot opens its room and comes back, spots are thumb-sized, the labels, mail sign, Bowl Pool board and room list, the pinned ticket; the Trophy Room's table turns by its arrows, hangs the front trophy's champions and shows nothing else, the plaques and pennant (`lab.visual.spec.ts`); data rules in `test/lab-clubhouse.test.mjs` | `/admin/workshop/lab?try=clubhouse` |
+| Lab try-out, Clubhouse: the whole pool as one grand beach bungalow, phone first, sample league only. **The room** is a 3D picture (rendered by `tools/clubhouse-room`; by day, and at night with the pool lit) seen from just inside, looking down the room; what has to be read hangs on the wall that faces the viewer, nothing is turned to the camera by a trick. The room is lit as a real one is (late sun raking through the glass and across the oak floor, soft shadow wherever two things meet, the room reflected in its own brass and floor), and there is room to walk: in past the poker table, along the bar, round the lounge and out through the open doors. A thatched beach-hut ceiling laid in courses (no beams) with two big palm-leaf fans, each blade a modelled leaf, each with a light; on the back wall, left, where picks are made, face on (the Big Board, under it one board of the week's spreads as wide as the wall in big type, the counter; no sign names it); on its right, glass to the thatch with the sliding doors standing open onto the pool patio, a linen sheer at each side, palms, tiki torches and the sea beyond; down the left wall the bar (a fluted walnut front on a brass kick plate, a marble top, green leather stools on brass, a back bar of walnut and antique mirror with three lit glass shelves of real bottles, glassware on the back counter and the neon above; plaques along its front, the laptop on top; the record book lies open on the lounge table); on the right the Trophy Room, a room of its own to the side whose wall steps into the clubhouse and whose door faces the viewer (inside, the real trophies on their round table under a lamp, the champions' banners behind), the constitution framed over that door; beyond it a grand fieldstone fireplace floor to thatch (lit at night, laid but cold by day) and the lounge in front (a sofa, two cane armchairs, a low table) set clear of the aisle; in the middle a long oval Survivor poker table with a deep padded club chair for every player (ten), a hand dealt to each; and from Dec 7 the Bowl Pool's bulletin board on wheels, standing in the open floor by the end of the bar with the bowl games pinned up as cards. A tap spot (never smaller than 44px) lies over each: the picks wall opens the Window, the Big Board the Big Board, the Trophy Room's door the Trophy Room, the plaques on the bar the Plaques, the poker table the Survivor table; the record book, laptop (pool chat), constitution and Bowl Pool board open stand-ins for now. Only the Window, the Big Board and Survivor (and the Bowl Pool board) carry a label with a line of news; "Show labels" names everything. The laptop shows a mail sign when there's a new message; the picks wall glows while a pick is owed. Under the picture, the rooms as a plain list. **Your ticket** is pinned to the bottom of every clubhouse screen but the Window: a lamp per pick (lit once it is in) and the next deadline; it opens the Window. Every room has one "Back to Clubhouse" button and its name at the top. **Trophy Room:** exactly today's Trophy Room page without its stats: the turning table (its arrows turn it) and the banners of the trophy at the front, with the sample champions. **Plaques:** a quiet engraved brass plaque per season, the season countdown plate, and A champion is crowned. Pictures: the room (as it opens, with labels, from Dec 7, all picks in with nothing new), the Big Board, the Window, the Trophy Room and the Plaques' two scenes, phone and desktop by day, phone at night; behaviour tests: every spot opens its room and comes back, spots are thumb-sized, the labels, mail sign, Bowl Pool board and room list, the pinned ticket; the Trophy Room's table turns by its arrows, hangs the front trophy's champions and shows nothing else, the plaques and pennant (`lab.visual.spec.ts`); data rules in `test/lab-clubhouse.test.mjs` | `/admin/workshop/lab?try=clubhouse` |
 | Lab Lamp-lit switch (on the shelf, remembered on this device): at night the try-outs sit under one warm lamp (a pool of light from above with no visible edge, shadow around it, one warm paper tone, a glow on the felt and the clubhouse rooms); by day it only shows a note that it is a night look; Survivor table, Clubhouse and Pad skins, night, phone and desktop (`lab.visual.spec.ts`) | `/admin/workshop/lab` with Lamp-lit on |
 | Lab try-out, Survivor table (rebuilt to show everything the Survivor list shows): a week stepper (weeks 1 to 12, then Playoffs) and Before kickoff / Game day / Graded. The felt: AFC and NFC (side by side on a computer, stacked on a phone), each with its four divisions in the same order (East, North, South, West) and the division names in one column, so rows line up straight across; this week's chips (players' initials) on the teams taken; a losing box swept once graded; "6 of 10 alive"; a one-line key. Before kickoff another player's chip is face down on their seat, never on a team, and a player who has not picked shows NO PICK YET. Seats in standings order, dark once out with "OUT · WK n · TEAM"; the champion's seat crowned in week 12 ("Earl wins Survivor"); in the playoffs the felt is cleared. Tap a seat for every team used. List shows today's Survivor list from the same data. Pictures: week 7 Graded / Before kickoff / Game day, week 3, week 12 champion, playoffs (phone and desktop by day, phone at night) and the seat sheet; behaviour tests for every fact against the list, the champion and playoffs, and the divisions lining up (`lab.visual.spec.ts`) | `/admin/workshop/lab?try=survivor` |
 | Lab try-out, Tote board (first on the shelf): the clubhouse's two main pieces in the racetrack board's housing. **The Big Board** is everyone's picks in one place: today's Pad columns (wins, player, Pick 1, Pick 2; no place) plus a Survivor column of the real poker chips (face down until kickoff, greyed after a loss); each pick panel is team, line and a fixed lamp slot, so every W and L in a column shares one centre line; a pick made but not shown yet is dark lamps and a green IN. One tap on the board turns it to **Season standings** (POS with level players sharing a place, "T2"; player; wins; BACK from the leader): the standings fold into the board. Before kickoff / Game day / Graded. **The Window** is every pick a player makes, in one place: the week's games (two against the spread, a pick framed by a single gilt line), then Survivor's chips on a rack (used teams greyed "USED WK n", kicked-off games locked, one chip at a time), then one ticket (Pick 1, Pick 2, Survivor) and one Submit ("Submitted ✓"; a change afterwards asks to "Submit changes"). Picking / Game day / Out of Survivor (Survivor stays while the pool goes on, read only: "lost in week n", how many are still in) / Survivor decided (Survivor leaves the Window). Pictures: the Big Board before kickoff, on game day, graded and on its season face; the Window in each moment (phone and desktop by day, phone at night); behaviour tests: today's columns, hidden picks and Survivor chips until kickoff, W and L on one centre line, the season face, and the Window's picks, chip, ticket and Submit through every moment (`lab.visual.spec.ts`) | `/admin/workshop/lab?try=tote` |

diff --git a/docs/DECISION_LOG.md b/docs/DECISION_LOG.md
@@ -40,6 +40,11 @@ Then the layout, at the owner's word ("we need to be smarter with where things a
   shorter for the same reason.
 Rule kept: nothing is turned to the camera by a trick; a thing that must be seen is given a real wall that faces the viewer.
 
+A third round, at the owner's word: the poker chairs became deep padded club chairs; the bar became more elegant (fluted walnut,
+marble, brass, a mirrored back bar with lit shelves of real bottles and rows of glassware); the TV went; the Bowl Pool's board moved
+out of the back of the room into the open floor by the end of the bar, larger, with the bowl games pinned up; and the fire is lit in
+the night picture and cold by day. Night is the player's own day/night switch, not the clock.
+
 ## 2026-11-12 - The clubhouse becomes one 3D room (Lab), a "New" view for next season
 
 The owner's vision for next season: a switch beside night mode between the Classic view (kept exactly as it is) and a New view in

diff --git a/tools/clubhouse-room/README.md b/tools/clubhouse-room/README.md
@@ -19,7 +19,8 @@ The room uses the real trophy models, so it borrows the trophy renderer's module
 ## Files
 
 - `room.js`: the room (the thatch and fans, the glass wall with its open doors and the pool patio, the Big Board and spreads board,
-  the bar, the Trophy Room and its door, the stone fireplace, the lounge, the oval poker table, the Bowl Pool board), its light (the
+  the bar and its mirrored back bar, the Trophy Room and its door, the stone fireplace (lit only at night), the lounge, the oval
+  poker table, the Bowl Pool board), its light (the
   sun, the room's own reflections, contact shadow, glow) and the camera.
 - `surfaces.js`: what the room is made of: the drawn surfaces (planks, shiplap, fieldstone, thatch, cane, sky, flame) and the one
   modelled leaf that every fan blade and plant is grown from.
